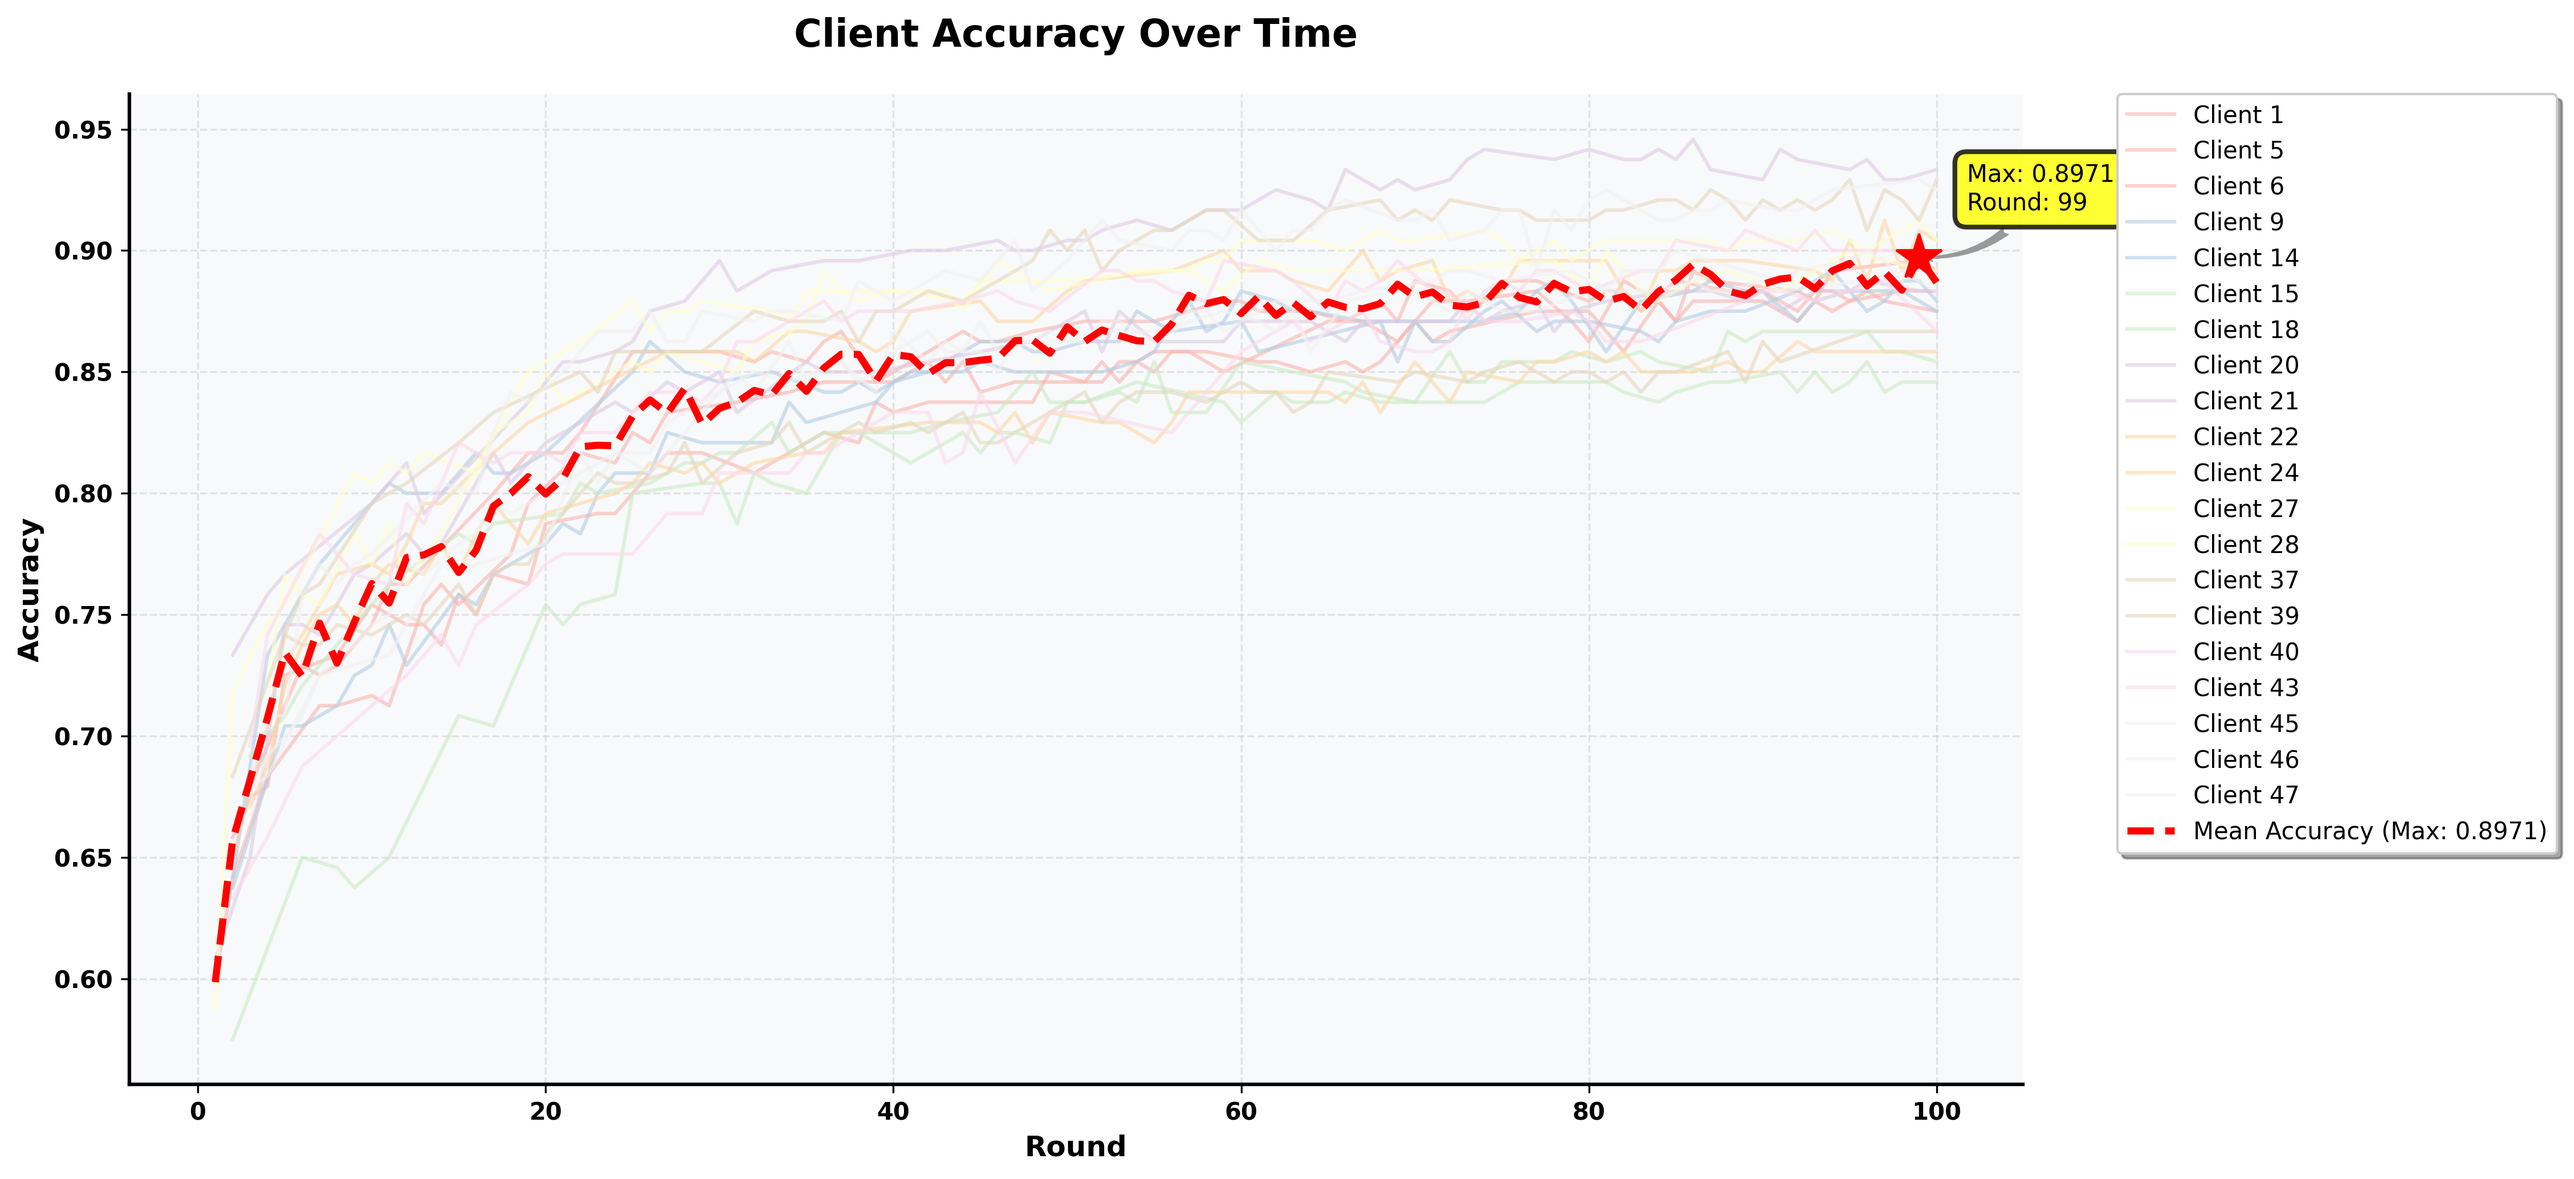
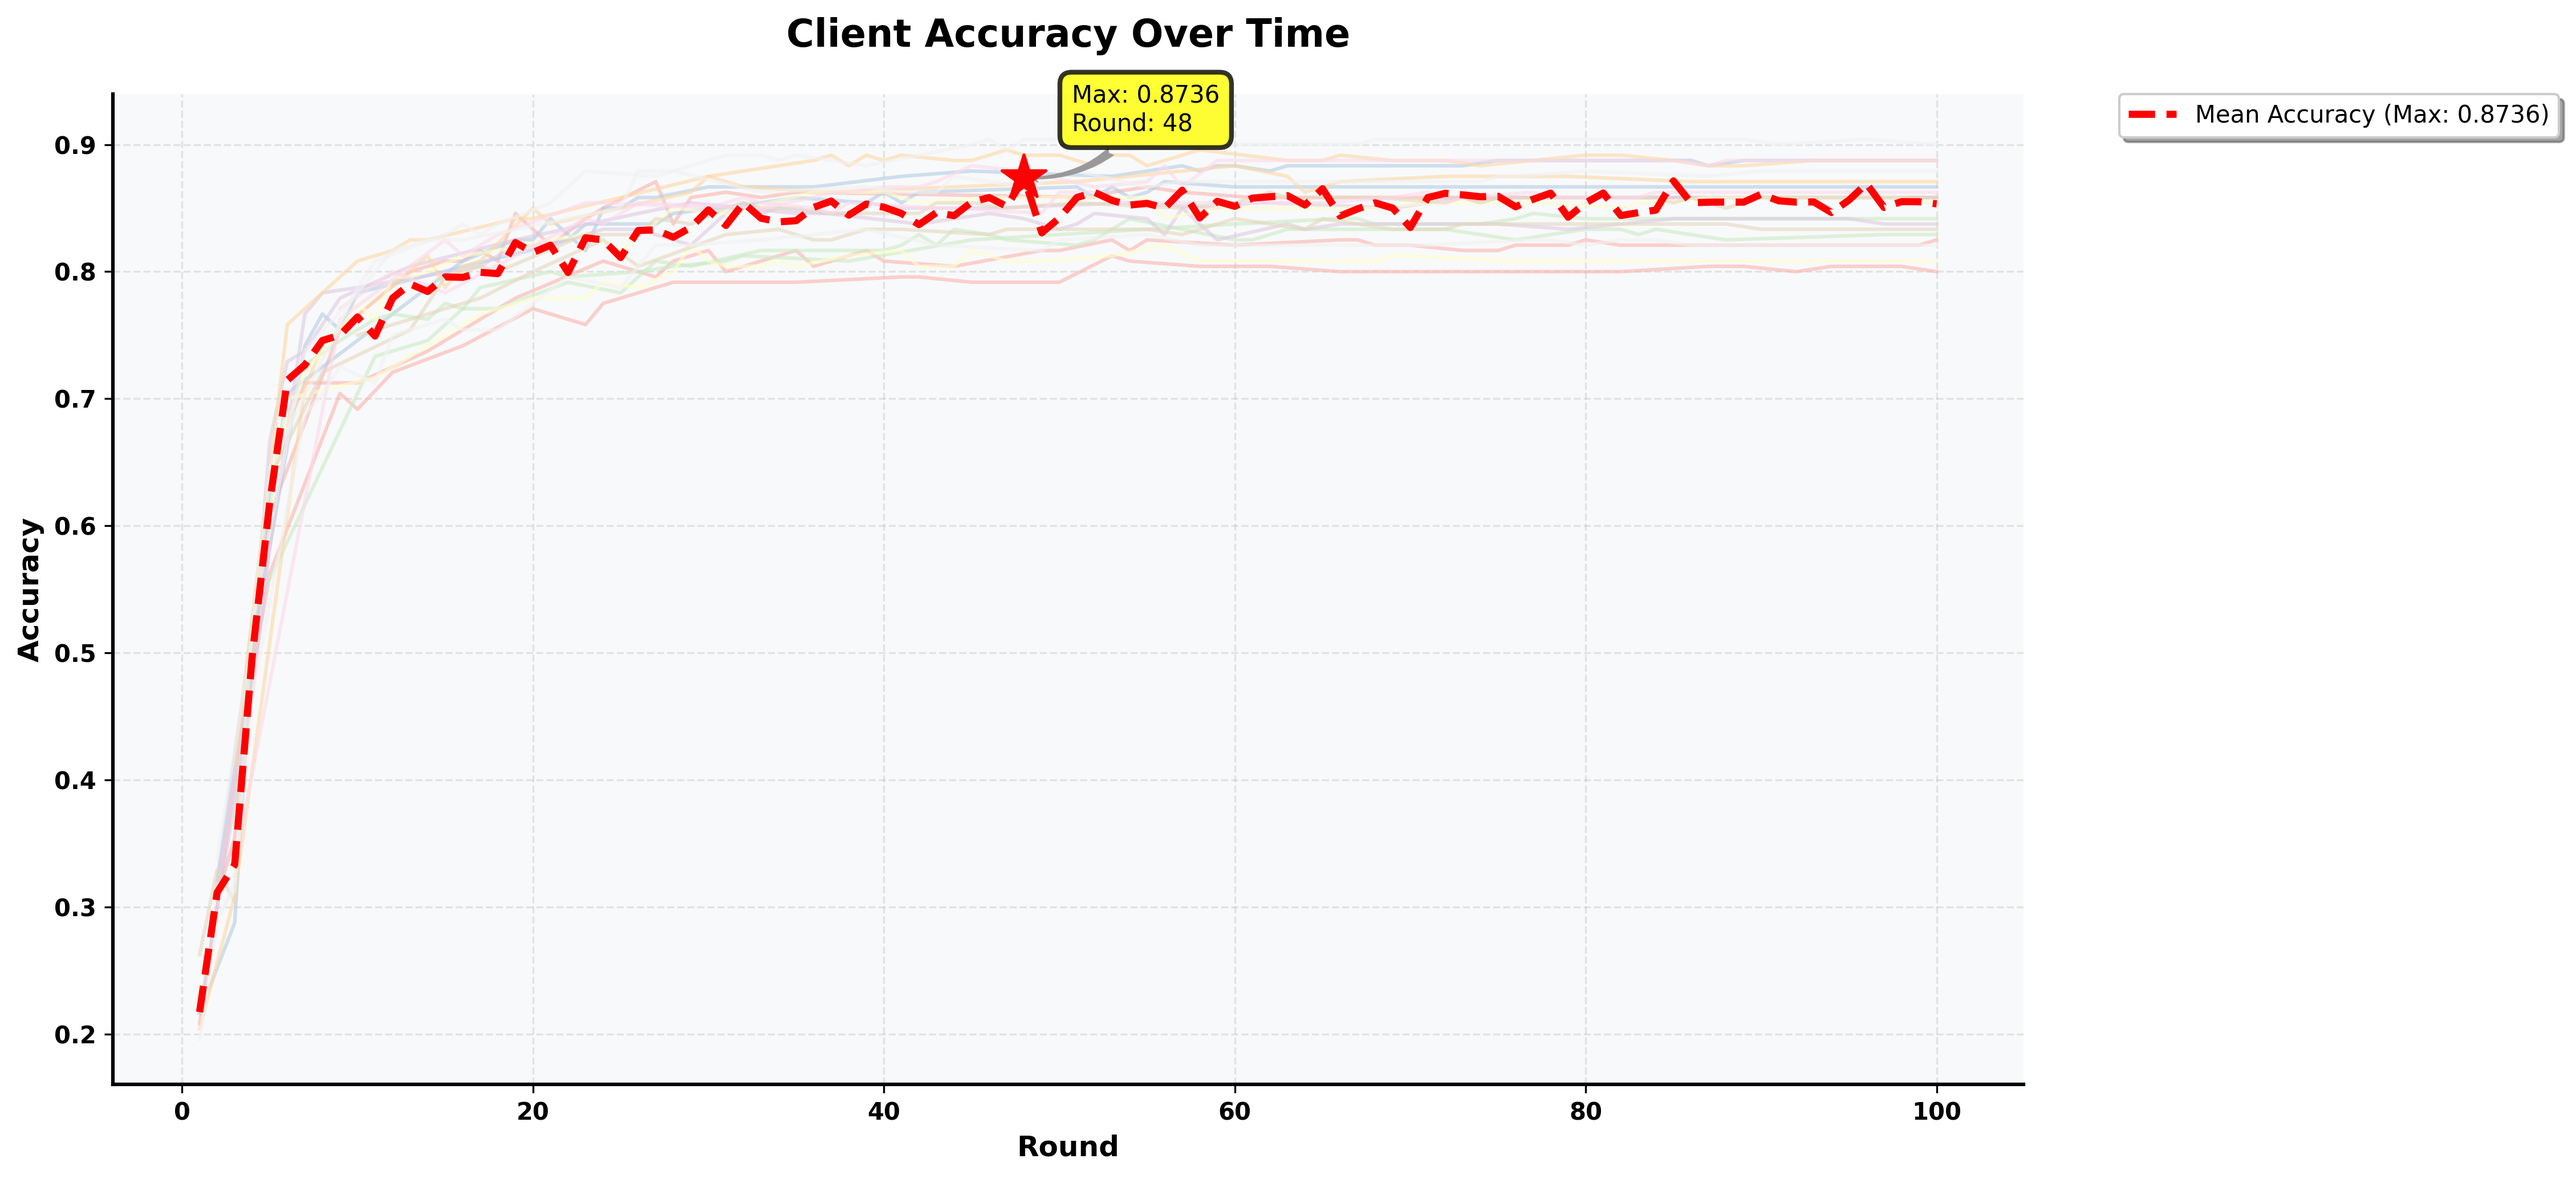
update

diff --git a/src/create_client.py b/src/create_client.py
@@ -36,6 +36,7 @@ from models import (
 from utils.test import test
 from utils.train import train
 from utils.utils import get_parameters, set_parameters
+import hashlib
 
 
 @dataclass
@@ -83,15 +84,17 @@ class SecureClient(NumPyClient):
         
         set_parameters(self.model, parameters)
         
-        server_round = config.get("server_round", 1)
+        server_round = config.get("server_round")
+    
+    
         current_lr = self.config.lr * (0.1 ** (server_round // 30))
-        
+
         # Merge configuration
         full_config = {
             "lr": current_lr,
             "min_lr": 0.001,
             "scheduler": self.config.scheduler,
-            "total_rounds": 10,
+            "total_rounds": config.get("total_rounds"),
             "server_round": config.get("server_round"),
             **config
         }
@@ -107,7 +110,6 @@ class SecureClient(NumPyClient):
         )
         self.time_metrics["train"].append(time.time() - start_time)
     
-        # Save encrypted parameters
         params_path = f"{self.config.encrypted_dir}/client_{self.config.partition_id}_params.pth"
         torch.save(self.model.state_dict(), params_path)
         
@@ -120,24 +122,30 @@ class SecureClient(NumPyClient):
     ) -> Tuple[float, int, Dict[str, Scalar]]:
         """Evaluate the model on local data."""  
         
-        full_config = {
-            "server_round": config.get("server_round"),
-            "total_rounds": 10,
-            **config
-        }
     
         # Load aggregated parameters
         params_path = f"{self.config.encrypted_dir}/aggregated_params.pth"
+        # # Read hash of aggregated params file
+        # hash_path = f"{self.config.encrypted_dir}/aggregated_params.hash"
+        # with open(hash_path, 'r') as f:
+        #     expected_hash = f.read().strip()
+
+        # # Calculate hash of current params file 
+        # with open(params_path, 'rb') as f:
+        #     actual_hash = hashlib.sha256(f.read()).hexdigest()
+
+        # Verify hash matches before loading
+        # if actual_hash != expected_hash:
+            # raise ValueError("Parameter file hash mismatch - possible tampering detected")
         self.model.load_state_dict(torch.load(params_path))
         self.model.to(self.device)
-        
         # Evaluation
         loss, accuracy = test(self.model, self.valloader, verbose=True)
           
         self.accuracy_log[config.get("server_round")] = accuracy
         
         
-        if config.get("server_round") == full_config["total_rounds"]:
+        if config.get("server_round") == 100:
             self._finalize_training()
         
         return loss, len(self.valloader), {"accuracy": float(accuracy)}
@@ -232,8 +240,8 @@ def main():
     parser = argparse.ArgumentParser(description="Secure Federated Learning Client")
     parser.add_argument("--partition-id",   type=int,   default=0)
     parser.add_argument("--client-number",  type=int,   default=1)
-    parser.add_argument("--lr",             type=float, default=0.01)
-    parser.add_argument("--scheduler",      type=str,   default="cosine", choices=["cosine", "step"])
+    parser.add_argument("--lr",             type=float, default=0.1)
+    parser.add_argument("--scheduler",      type=str,   default="step", choices=["cosine", "step"])
     parser.add_argument("--batch-size",     type=int,   default=128)
     parser.add_argument("--model_name",     type=str,   default="LeNet5")
     parser.add_argument("--dataset_name",   type=str,   default="FASHIONMNIST")

diff --git a/src/create_server.py b/src/create_server.py
@@ -26,6 +26,7 @@ from flwr.server.strategy import FedAvg
 from utils import encryption
 from utils import filedata as fd
 from utils.quantization import Quantizer
+import hashlib
 
 def fit_config(server_round: int) -> Dict:
     """Return a configuration with static number of rounds."""
@@ -45,10 +46,11 @@ def evaluate_config(server_round: int) -> Dict:
 @dataclass
 class ServerConfig:
     """Server configuration parameters."""
-    num_rounds: int = 20
-    min_clients: int = 2
-    min_evaluate_clients: int = 2
-    min_available_clients: int = 5
+    num_rounds: int = 100
+    
+    min_clients: int = 40
+    min_evaluate_clients: int = 40
+    min_available_clients: int = 200
     poly_modulus_degree: int = 4096
     plain_modulus: int = 1032193
     quant_bits: int = 8
@@ -62,7 +64,7 @@ class SecureAggregationStrategy(FedAvg):
     def __init__(self, config: ServerConfig):
         super().__init__(
             fraction_fit            =   config.min_clients / config.min_available_clients,
-            fraction_evaluate       =   1.0,
+            fraction_evaluate       =    config.min_evaluate_clients / config.min_available_clients,
             min_fit_clients         =   config.min_clients,
             min_evaluate_clients    =   config.min_evaluate_clients,
             min_available_clients   =   config.min_available_clients,
@@ -114,7 +116,18 @@ class SecureAggregationStrategy(FedAvg):
             shape = next(p[name].shape for p in client_params)  
             reshaped_params[name] = aggregated_params[name].view(shape)
     
-        torch.save(reshaped_params, f"{self.config.encrypted_dir}/aggregated_params.pth")        
+        torch.save(reshaped_params, f"{self.config.encrypted_dir}/aggregated_params.pth")  
+              
+        # # Calculate hash of aggregated parameters
+        # hash_object = hashlib.sha256()
+        # with open(f"{self.config.encrypted_dir}/aggregated_params.pth", 'rb') as f:
+        #     hash_object.update(f.read())
+        # param_hash = hash_object.hexdigest()
+
+        # # Write hash to file
+        # with open(f"{self.config.encrypted_dir}/aggregated_params.hash", 'w') as f:
+        #     f.write(param_hash)
+            
         return super().aggregate_fit(server_round, results, failurs)
 
     def _collect_client_parameters(self, results) -> List[Dict]:

diff --git a/src/utils/train.py b/src/utils/train.py
@@ -16,21 +16,28 @@ def train(
     optimizer = torch.optim.SGD(net.parameters(), 
                                 lr=config.get("lr"), 
                                 momentum=0.9, 
-                                weight_decay=5e-4)
+                                weight_decay=0)
     
     if config.get('scheduler') == 'cosine':
         scheduler = CosineAnnealingLR(
             optimizer,
             T_max=config.get('total_rounds', epochs),
-            eta_min=config.get("min_lr", 0.001)
+            eta_min=config.get("min_lr", 0.001),
         )
+    elif config.get('scheduler') == 'step':
+        scheduler = StepLR(optimizer, step_size=40, gamma=0.1)
     else:
-        scheduler = StepLR(optimizer, step_size=30, gamma=0.1)
+        raise ValueError("Invalid scheduler type")
     
     net.train()
     
-        
     for epoch in range(epochs):
+        
+        current_lr = optimizer.param_groups[0]['lr']
+        if verbose:
+            print(f"\nEpoch {epoch+1}/{epochs}, Learning Rate: {current_lr:.6f}")
+            
+            
         correct, total, epoch_loss = 0, 0, 0.0
         for batch in trainloader:
             if isinstance(batch, dict):

diff --git a/src/utils/plot_accuracy.py b/src/utils/plot_accuracy.py
@@ -57,7 +57,7 @@ plt.grid(True, linestyle='--', alpha=0.3, zorder=0)
 colors = plt.cm.Pastel1(np.linspace(0, 1, len(client_accuracy)))
 for (client_id, data), color in zip(client_accuracy.items(), colors):
     plt.plot(data["round"], data["accuracy"], 
-            label=f"Client {client_id}", 
+            # label=f"Client {client_id}", 
             alpha=0.6,
             color=color,
             zorder=2)
